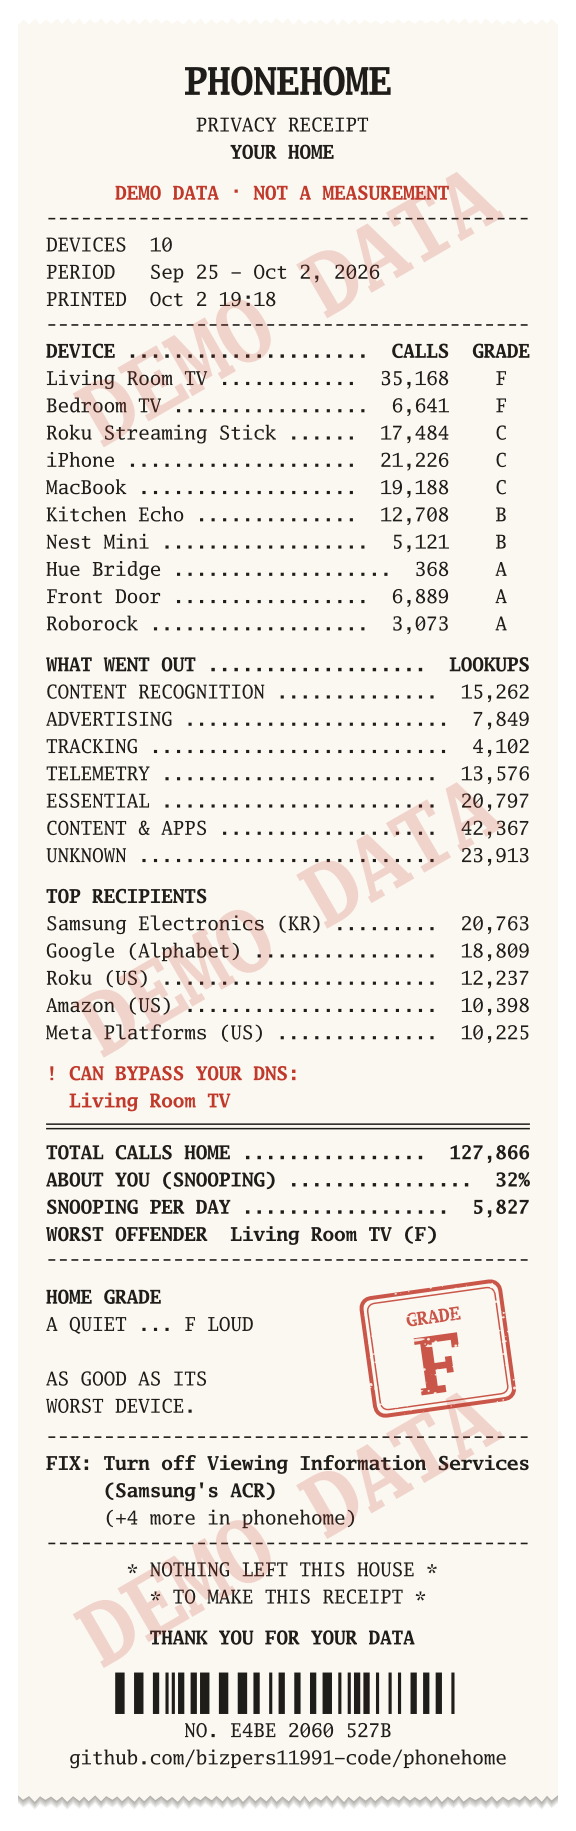
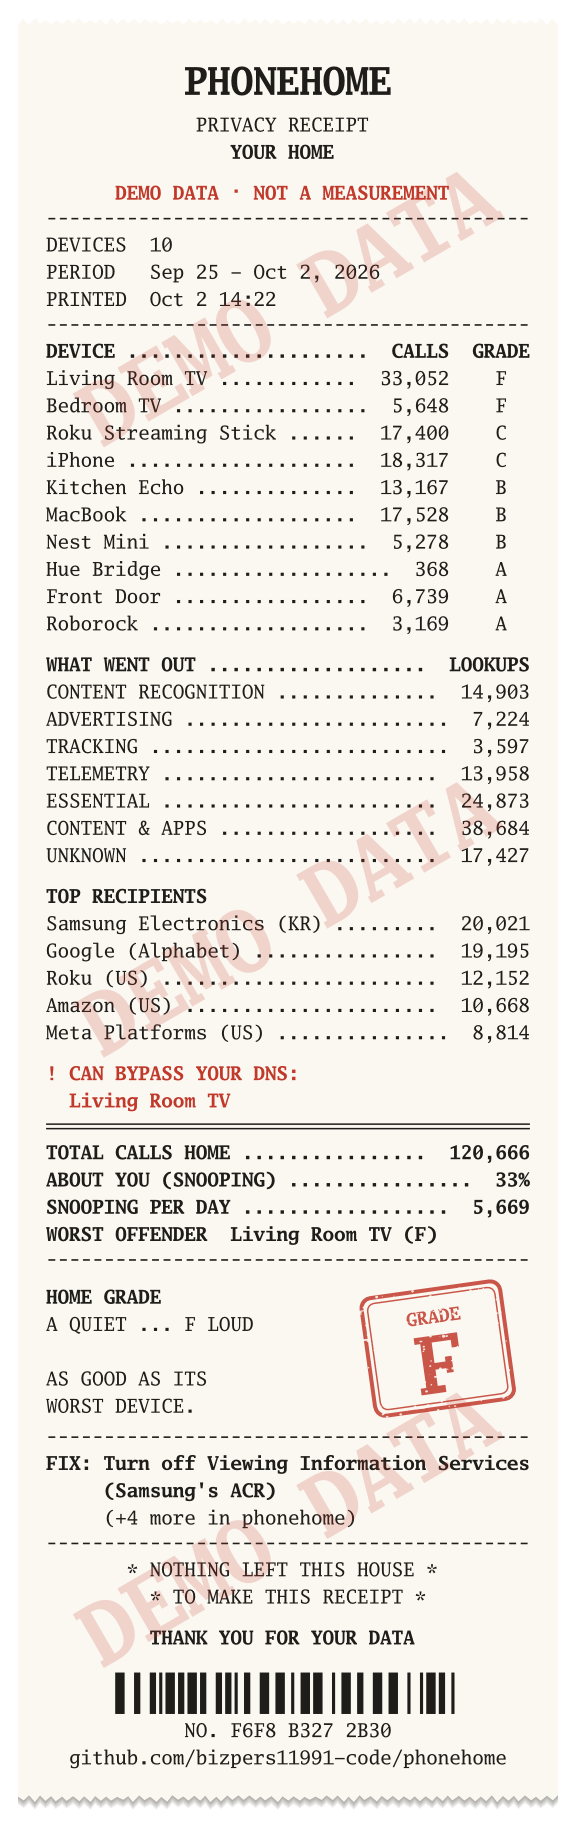
Add a home-level grade and pin demo classification
HomeReport gains Grade, computed in analyze by HomeGrade: a home is as
good as its worst device ("" when there are no devices). The home
receipt stamps it instead of re-deriving it from the device list, the
web API exposes it as "grade", and `phonehome report` prints it. The
rule is documented in docs/grading.md.

A new demo test checks that every demo hostname is classified except an
explicit list of hostnames that still lack a sourced KB rule. Receipt
images regenerated from the demo binary.

Claude-Session: https://claude.ai/code/session_016BbEvPUfyDei7FV5RFJkcU

diff --git a/internal/demo/demo_test.go b/internal/demo/demo_test.go
@@ -6,6 +6,7 @@ import (
 	"testing"
 	"time"
 
+	"github.com/bizpers11991-code/phonehome/internal/kb"
 	"github.com/bizpers11991-code/phonehome/internal/model"
 )
 
@@ -132,5 +133,44 @@ func TestShortPeriod(t *testing.T) {
 	}
 	if len(h.DNS) == 0 {
 		t.Fatal("no lookups")
+	}
+}
+
+// The demo keeps a realistic share of lookups the knowledge base cannot
+// classify, but only for hostnames that genuinely lack a sourced KB rule.
+// Every other demo hostname must be classified, so a KB regression or a new
+// unsourced demo hostname shows up here. Remove a name from this list when a
+// rule with evidence lands for it.
+var unclassifiedOnPurpose = []string{
+	"api.github.com",
+	"dmls-na.amazon.com",
+	"edgeapi.slack.com",
+	"fonts.googleapis.com",
+	"github.com",
+	"unagi-na.amazon.com",
+	"weatherkit.apple.com",
+	"wss-primary.slack.com",
+	"www.google.com",
+	"www.googletagmanager.com",
+	"zoom.us",
+}
+
+func TestDemoDomainsClassified(t *testing.T) {
+	k := kb.Default()
+	h := Generate(42, end, 7)
+	seen := map[string]bool{}
+	var unknown []string
+	for _, q := range h.DNS {
+		if seen[q.Domain] {
+			continue
+		}
+		seen[q.Domain] = true
+		if k.Classify(q.Domain).Category == model.CatUnknown {
+			unknown = append(unknown, q.Domain)
+		}
+	}
+	slices.Sort(unknown)
+	if !slices.Equal(unknown, unclassifiedOnPurpose) {
+		t.Errorf("unclassified demo hostnames = %v\nwant %v", unknown, unclassifiedOnPurpose)
 	}
 }

diff --git a/internal/web/web_test.go b/internal/web/web_test.go
@@ -365,6 +365,7 @@ func TestReportJSON(t *testing.T) {
 		From       string
 		Total      int
 		SnoopShare float64
+		Grade      string
 		Categories []struct {
 			ID, Label string
 			Snooping  bool
@@ -393,6 +394,9 @@ func TestReportJSON(t *testing.T) {
 	}
 	if rep.Total == 0 || rep.SnoopShare <= 0 || rep.SnoopShare >= 1 {
 		t.Errorf("total %d, share %v", rep.Total, rep.SnoopShare)
+	}
+	if rep.Grade != "F" {
+		t.Errorf("home grade = %q, want F (the worst device's)", rep.Grade)
 	}
 	tv := rep.Devices[0]
 	if tv.Name != "Living room TV" || tv.DefaultName != "Samsung-QN65Q80B" || tv.Grade != "F" || tv.Kind != "tv" {
@@ -432,6 +436,9 @@ func TestEmptyReportUsesArrays(t *testing.T) {
 	body := get(t, newServer(b, web.Options{}), "/api/report").Body.String()
 	if !strings.Contains(body, `"devices":[]`) {
 		t.Errorf("empty report should have devices: [], got %s", body)
+	}
+	if !strings.Contains(body, `"grade":""`) {
+		t.Errorf("empty report should have an empty home grade, got %s", body)
 	}
 }
 

diff --git a/internal/analyze/grade_test.go b/internal/analyze/grade_test.go
@@ -35,3 +35,31 @@ func TestGrade(t *testing.T) {
 		}
 	}
 }
+
+func TestHomeGrade(t *testing.T) {
+	devs := func(grades ...string) []model.DeviceReport {
+		out := make([]model.DeviceReport, len(grades))
+		for i, g := range grades {
+			out[i].Grade = g
+		}
+		return out
+	}
+	tests := []struct {
+		name string
+		devs []model.DeviceReport
+		want string
+	}{
+		{"no devices", nil, ""},
+		{"one device", devs("B"), "B"},
+		{"worst wins", devs("A", "D", "B"), "D"},
+		{"F beats D", devs("D", "F", "A"), "F"},
+		{"all quiet", devs("A", "A"), "A"},
+		{"ungraded devices are ignored", devs("", "C", "?"), "C"},
+		{"only ungraded devices", devs(""), ""},
+	}
+	for _, tt := range tests {
+		if got := HomeGrade(tt.devs); got != tt.want {
+			t.Errorf("%s: HomeGrade = %q, want %q", tt.name, got, tt.want)
+		}
+	}
+}

diff --git a/internal/receipt/receipt_test.go b/internal/receipt/receipt_test.go
@@ -251,3 +251,28 @@ func TestCountryNotRepeated(t *testing.T) {
 		}
 	}
 }
+
+// The home stamp prints HomeReport.Grade as computed by analyze; it must not
+// re-derive a grade from the device list.
+func TestHomeStampUsesHomeGrade(t *testing.T) {
+	stamp := func(r model.HomeReport) string {
+		for _, l := range Home(r, Options{Now: printed}).Lines {
+			if l.Kind == Stamp {
+				return l.Text
+			}
+		}
+		t.Fatal("home receipt has no stamp")
+		return ""
+	}
+	r := home()
+	if got := stamp(r); got != "F" {
+		t.Errorf("stamp = %q, want F", got)
+	}
+	r.Grade = "B"
+	if got := stamp(r); got != "B" {
+		t.Errorf("stamp = %q, want the home grade B, not the worst device's", got)
+	}
+	if got := stamp(model.HomeReport{}); got != "?" {
+		t.Errorf("empty home stamp = %q, want ?", got)
+	}
+}

diff --git a/internal/analyze/analyze_test.go b/internal/analyze/analyze_test.go
@@ -318,6 +318,9 @@ func TestAggregates(t *testing.T) {
 	if d.Grade != "D" { // ACR lookups, no ACR heartbeat
 		t.Errorf("Grade = %s, want D", d.Grade)
 	}
+	if r.Grade != "D" { // the only device's grade
+		t.Errorf("home Grade = %s, want D", r.Grade)
+	}
 	for dom, n := range kb.classify {
 		if n != 1 {
 			t.Errorf("Classify(%q) called %d times, want 1", dom, n)
@@ -349,7 +352,7 @@ func TestAnalyzeEmpty(t *testing.T) {
 	now = func() time.Time { return fixed }
 
 	r := Analyze(newFakeKB(), week, []model.Device{{ID: "mac:x"}}, nil, nil, Options{})
-	if len(r.Devices) != 0 || r.Total != 0 || r.Snooping != 0 {
+	if len(r.Devices) != 0 || r.Total != 0 || r.Snooping != 0 || r.Grade != "" {
 		t.Errorf("report = %+v, want empty", r)
 	}
 	if len(r.ByCategory) != len(model.Categories()) {

diff --git a/internal/receipt/receipt.go b/internal/receipt/receipt.go
@@ -418,15 +418,15 @@ func Home(r model.HomeReport, o Options) Doc {
 	perDay = float64(r.Snooping) / r.Period.Days()
 	b.totals(r.Total, share, perDay)
 
-	grade := ""
 	if worst != nil {
-		grade = worst.Grade
-		g := fit(clean(grade), 1)
+		g := fit(clean(worst.Grade), 1)
 		val := " (" + g + ")"
 		b.bold("WORST OFFENDER  " + fit(clean(worst.Device.DisplayName()), Cols-16-width(val)) + val)
 	}
 	b.kind(Rule)
-	b.stamp(grade, []string{"HOME GRADE", "A QUIET ... F LOUD", "", "AS GOOD AS ITS", "WORST DEVICE."})
+	// The home grade is computed by analyze (HomeReport.Grade); the receipt
+	// only prints it.
+	b.stamp(r.Grade, []string{"HOME GRADE", "A QUIET ... F LOUD", "", "AS GOOD AS ITS", "WORST DEVICE."})
 	if worst != nil {
 		b.fix(worst.Fixes)
 	}

diff --git a/cmd/phonehome/commands.go b/cmd/phonehome/commands.go
@@ -383,8 +383,12 @@ func printReport(w io.Writer, r model.HomeReport, days int) {
 	if r.Total > 0 {
 		share = r.Snooping * 100 / r.Total
 	}
-	fmt.Fprintf(w, "Your devices called home %s times in the last %d days. %d%% of that was about you.\n\n",
+	fmt.Fprintf(w, "Your devices called home %s times in the last %d days. %d%% of that was about you.\n",
 		thousands(r.Total), days, share)
+	if r.Grade != "" {
+		fmt.Fprintf(w, "Home grade: %s (as good as its worst device).\n", r.Grade)
+	}
+	fmt.Fprintln(w)
 	for _, d := range r.Devices {
 		fmt.Fprintf(w, "%s  %-28s %8s lookups  %7s snooping/day  (%s)\n",
 			gradeOrDash(d.Grade), d.Device.DisplayName(), thousands(d.Total), thousands(int(d.PerDay)), d.Device.Kind)

diff --git a/internal/web/dto.go b/internal/web/dto.go
@@ -21,6 +21,7 @@ type reportDTO struct {
 	Total       int           `json:"total"`
 	Snooping    int           `json:"snooping"`
 	SnoopShare  float64       `json:"snoopShare"`
+	Grade       string        `json:"grade"` // home grade: the worst device's; "" with no devices
 	Categories  []categoryDTO `json:"categories"`
 	Devices     []deviceDTO   `json:"devices"`
 }
@@ -170,6 +171,7 @@ func newReportDTO(r model.HomeReport) reportDTO {
 		Total:       r.Total,
 		Snooping:    r.Snooping,
 		SnoopShare:  share(r.Snooping, r.Total),
+		Grade:       r.Grade,
 		Devices:     make([]deviceDTO, 0, len(r.Devices)),
 	}
 	for _, c := range model.Categories() {

diff --git a/internal/analyze/grade.go b/internal/analyze/grade.go
@@ -42,3 +42,19 @@ func Grade(r model.DeviceReport) string {
 	}
 	return "A"
 }
+
+// HomeGrade grades the whole home: it is as good as its worst device, so the
+// result is the worst grade among devs, or "" when there are no devices to
+// grade. Grades outside A–F (such as "") are ignored. See docs/grading.md.
+func HomeGrade(devs []model.DeviceReport) string {
+	worst := ""
+	for _, d := range devs {
+		switch d.Grade {
+		case "A", "B", "C", "D", "F":
+			if d.Grade > worst {
+				worst = d.Grade
+			}
+		}
+	}
+	return worst
+}

diff --git a/internal/receipt/fixtures_test.go b/internal/receipt/fixtures_test.go
@@ -126,7 +126,7 @@ func home() model.HomeReport {
 		dev("Smart Plug — Kettle", model.KindPlug, 1440, 12, "A"),
 		hueBridge(),
 	}
-	r := model.HomeReport{Period: lastWeek, GeneratedAt: printed, Devices: devs, ByCategory: map[model.Category]int{}, Demo: true}
+	r := model.HomeReport{Period: lastWeek, GeneratedAt: printed, Devices: devs, ByCategory: map[model.Category]int{}, Grade: "F", Demo: true}
 	for _, d := range devs {
 		r.Total += d.Total
 		r.Snooping += d.Snooping

diff --git a/internal/web/internal/fixture/fixture.go b/internal/web/internal/fixture/fixture.go
@@ -16,6 +16,7 @@ import (
 	"sync"
 	"time"
 
+	"github.com/bizpers11991-code/phonehome/internal/analyze"
 	"github.com/bizpers11991-code/phonehome/internal/model"
 )
 
@@ -279,6 +280,7 @@ func (b *Backend) Report(_ context.Context, p model.Period) (model.HomeReport, e
 		}
 	}
 	slices.SortStableFunc(rep.Devices, func(a, b model.DeviceReport) int { return cmp.Compare(b.Snooping, a.Snooping) })
+	rep.Grade = analyze.HomeGrade(rep.Devices)
 	return rep, nil
 }
 

diff --git a/internal/model/model.go b/internal/model/model.go
@@ -250,7 +250,8 @@ type HomeReport struct {
 	Total       int
 	Snooping    int
 	ByCategory  map[Category]int
-	Demo        bool // true when built from synthetic demo data
+	Grade       string // "A".."F", the worst device grade; "" with no devices. See docs/grading.md
+	Demo        bool   // true when built from synthetic demo data
 }
 
 // SourceStatus is the health of one ingestion source.
